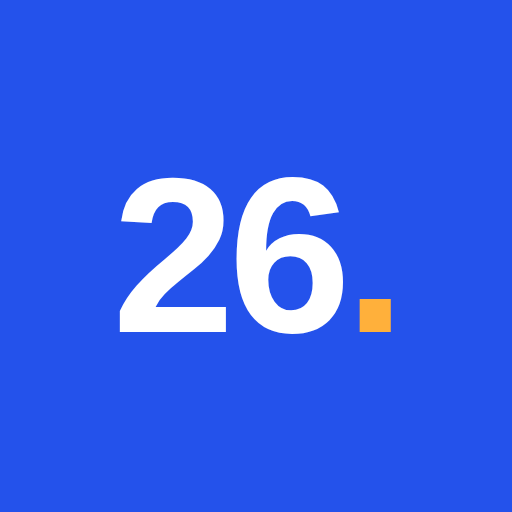
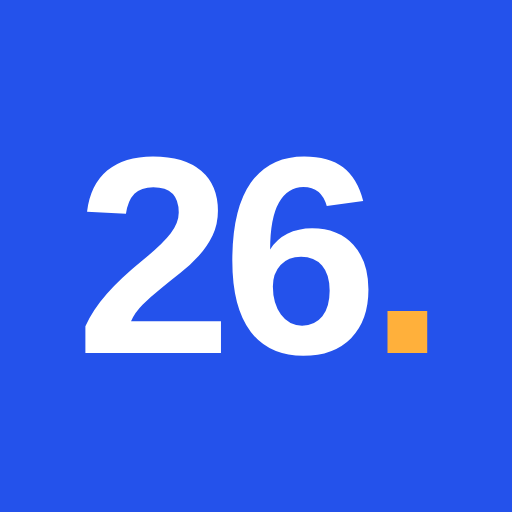
Make the "26." wordmark bigger and bolder
Enlarges the icon and header emblem so the mark fills more of its
square, closer to the bold reference style the user liked, without
reproducing anyone else's trademark.

Claude-Session: https://claude.ai/code/session_016pjdeHPzFnEhseNb1VGDN4

Changed region(s): [[0.1562, 0.2812, 0.8438, 0.7188], [0.5, 0.4375, 0.5312, 0.5]]

diff --git a/css/style.css b/css/style.css
@@ -68,13 +68,13 @@ body { direction: rtl; }
 .brand { display: flex; align-items: center; gap: 12px; }
 
 .brand-emblem {
-  width: 44px; height: 44px; border-radius: 12px;
+  width: 50px; height: 50px; border-radius: 13px;
   background: rgba(255,255,255,0.16);
   display: flex; align-items: center; justify-content: center;
   font-family: "Segoe UI", Arial, sans-serif;
   font-weight: 800;
-  font-size: 17px;
-  letter-spacing: -0.5px;
+  font-size: 21px;
+  letter-spacing: -1px;
   color: #fff;
   flex-shrink: 0;
 }
